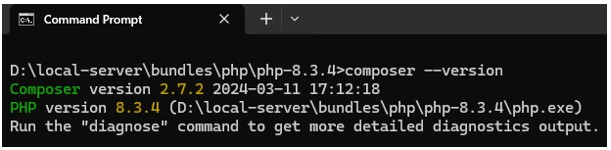
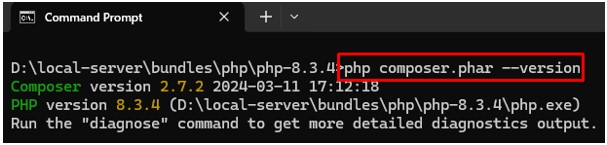
PR #3

diff --git a/php-manager/index.md b/php-manager/index.md
@@ -60,6 +60,6 @@ Composer adalah alat manajemen paket untuk bahasa pemrograman PHP yang digunakan
 
 	<img style="display: block; margin: 0;" src="assets/6.jpg" />
 
-- Buka windows terminal pada lokasi PHP tersebut. Selanjutnya tuliskan perintah `composer --version` jika berhasil maka akan tampil versi dari composer yang telah di-instal sebelumnya. Dalam kasus ini menggunakan composer versi `2.7.2`.
+- Buka windows terminal pada lokasi PHP tersebut. Selanjutnya tuliskan perintah `php composer.phar --version` jika berhasil maka akan tampil versi dari composer yang telah di-instal sebelumnya. Dalam kasus ini menggunakan composer versi `2.7.2`.
 
 	<img style="display: block; margin: 0;" src="assets/10.jpg" />
